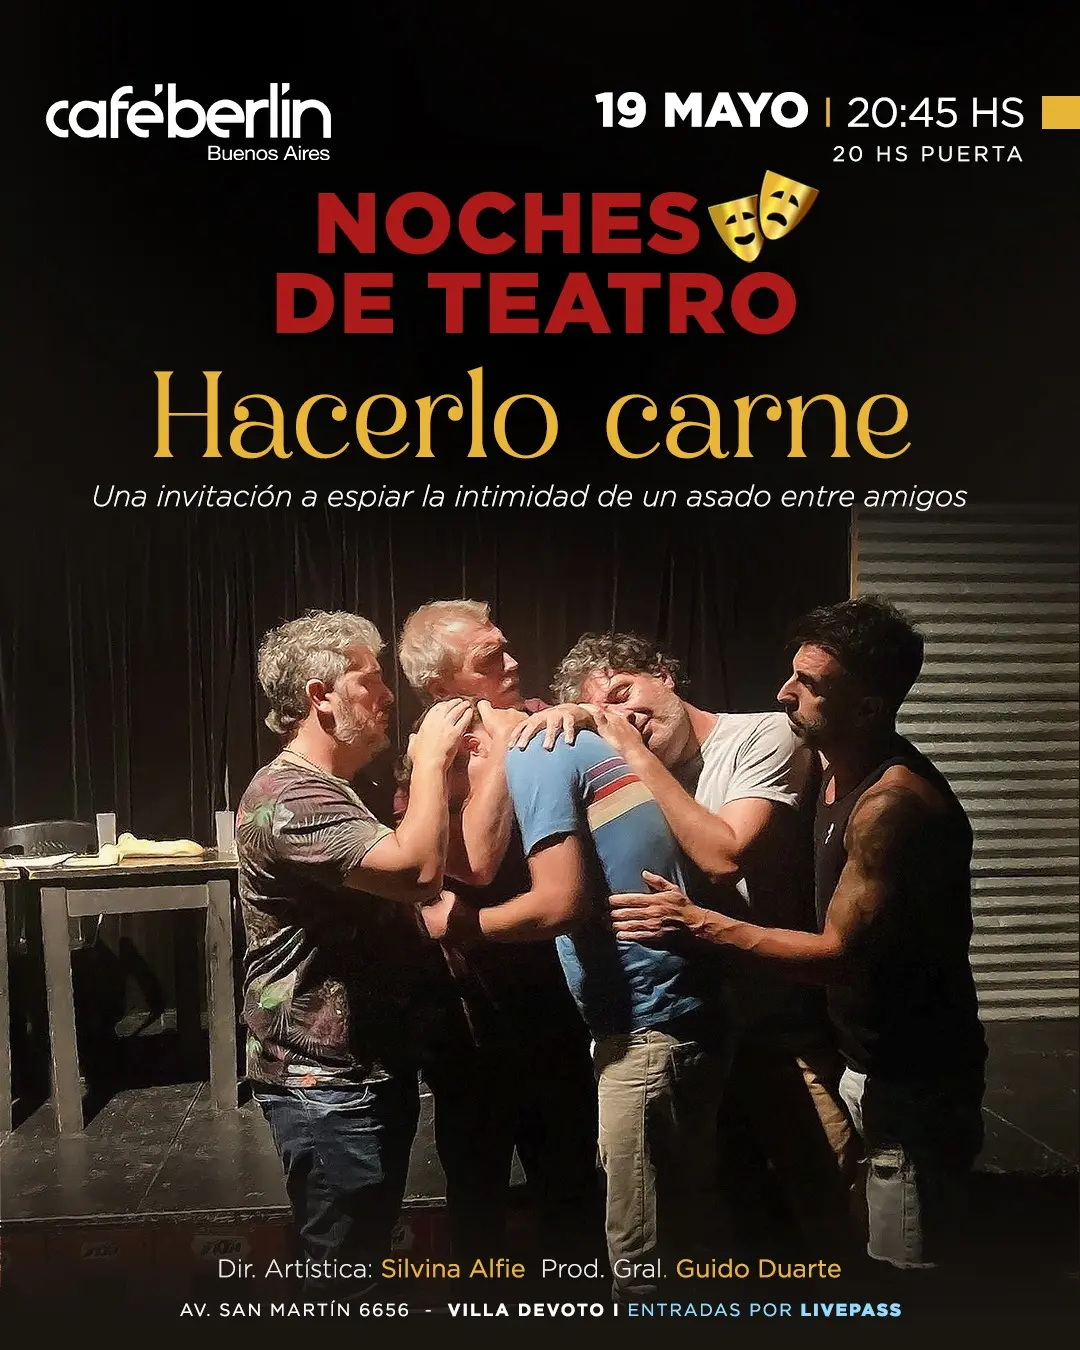
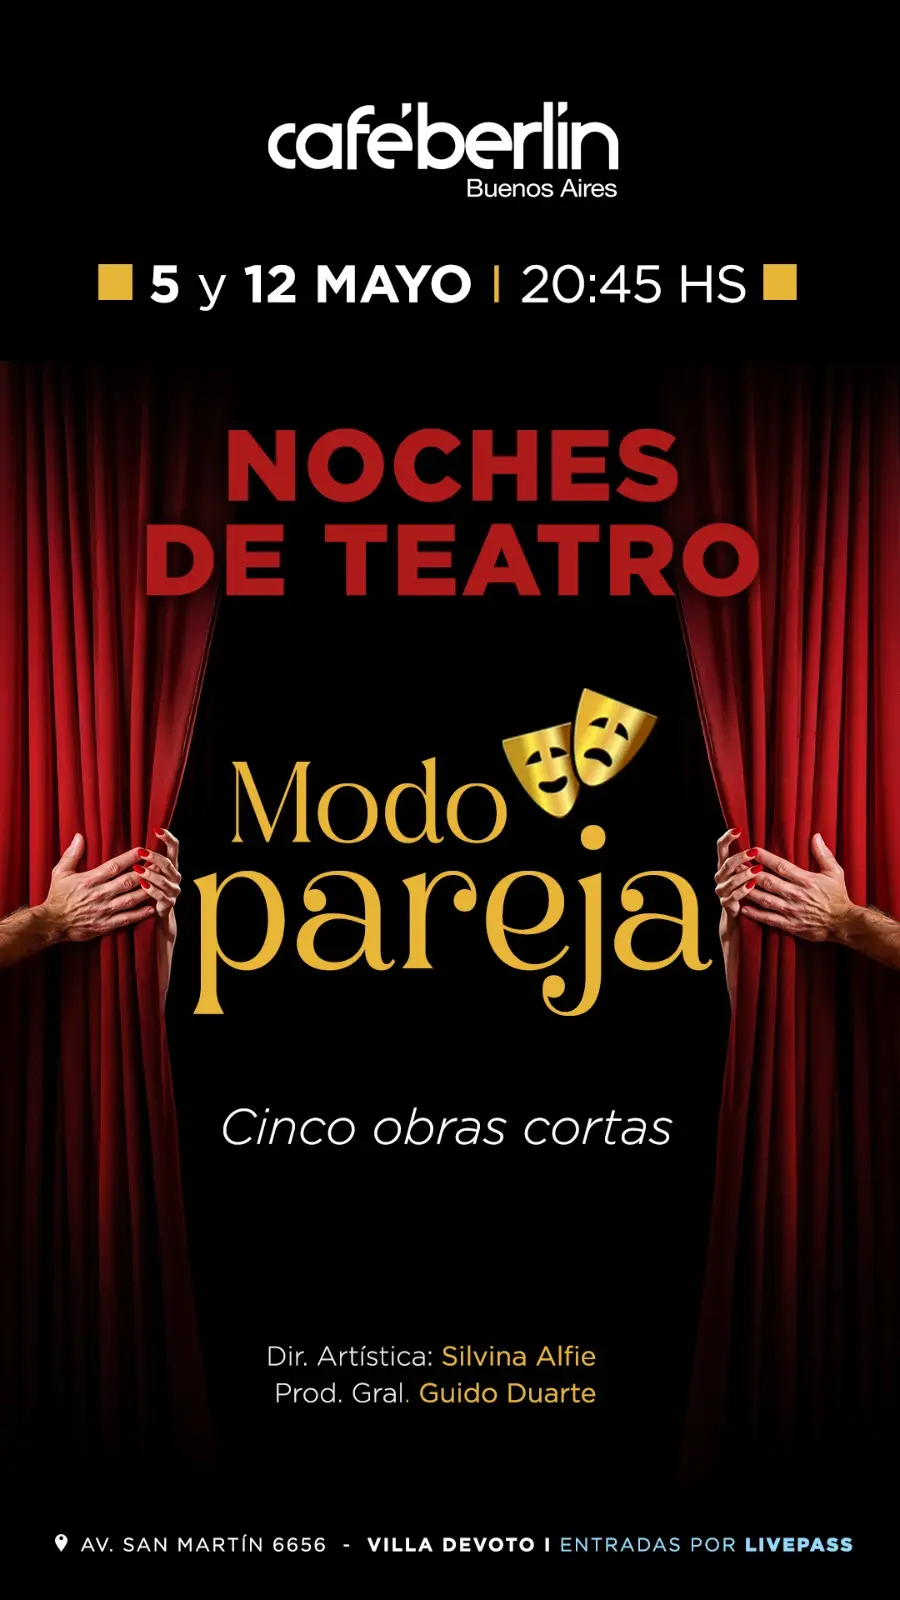
agregado de novedades

diff --git a/index.html b/index.html
@@ -166,6 +166,13 @@
               alt="Imagen de carrusel 5"
             />
           </div>
+          <div class="carousel-item" data-bs-interval="4000">
+            <img
+              src="./imgcarrusel/imagen 6.webp"
+              class="imgitemcarrusel d-block"
+              alt="Imagen de carrusel 5"
+            />
+          </div>
         </div>
         <button
           class="carousel-control-prev"
